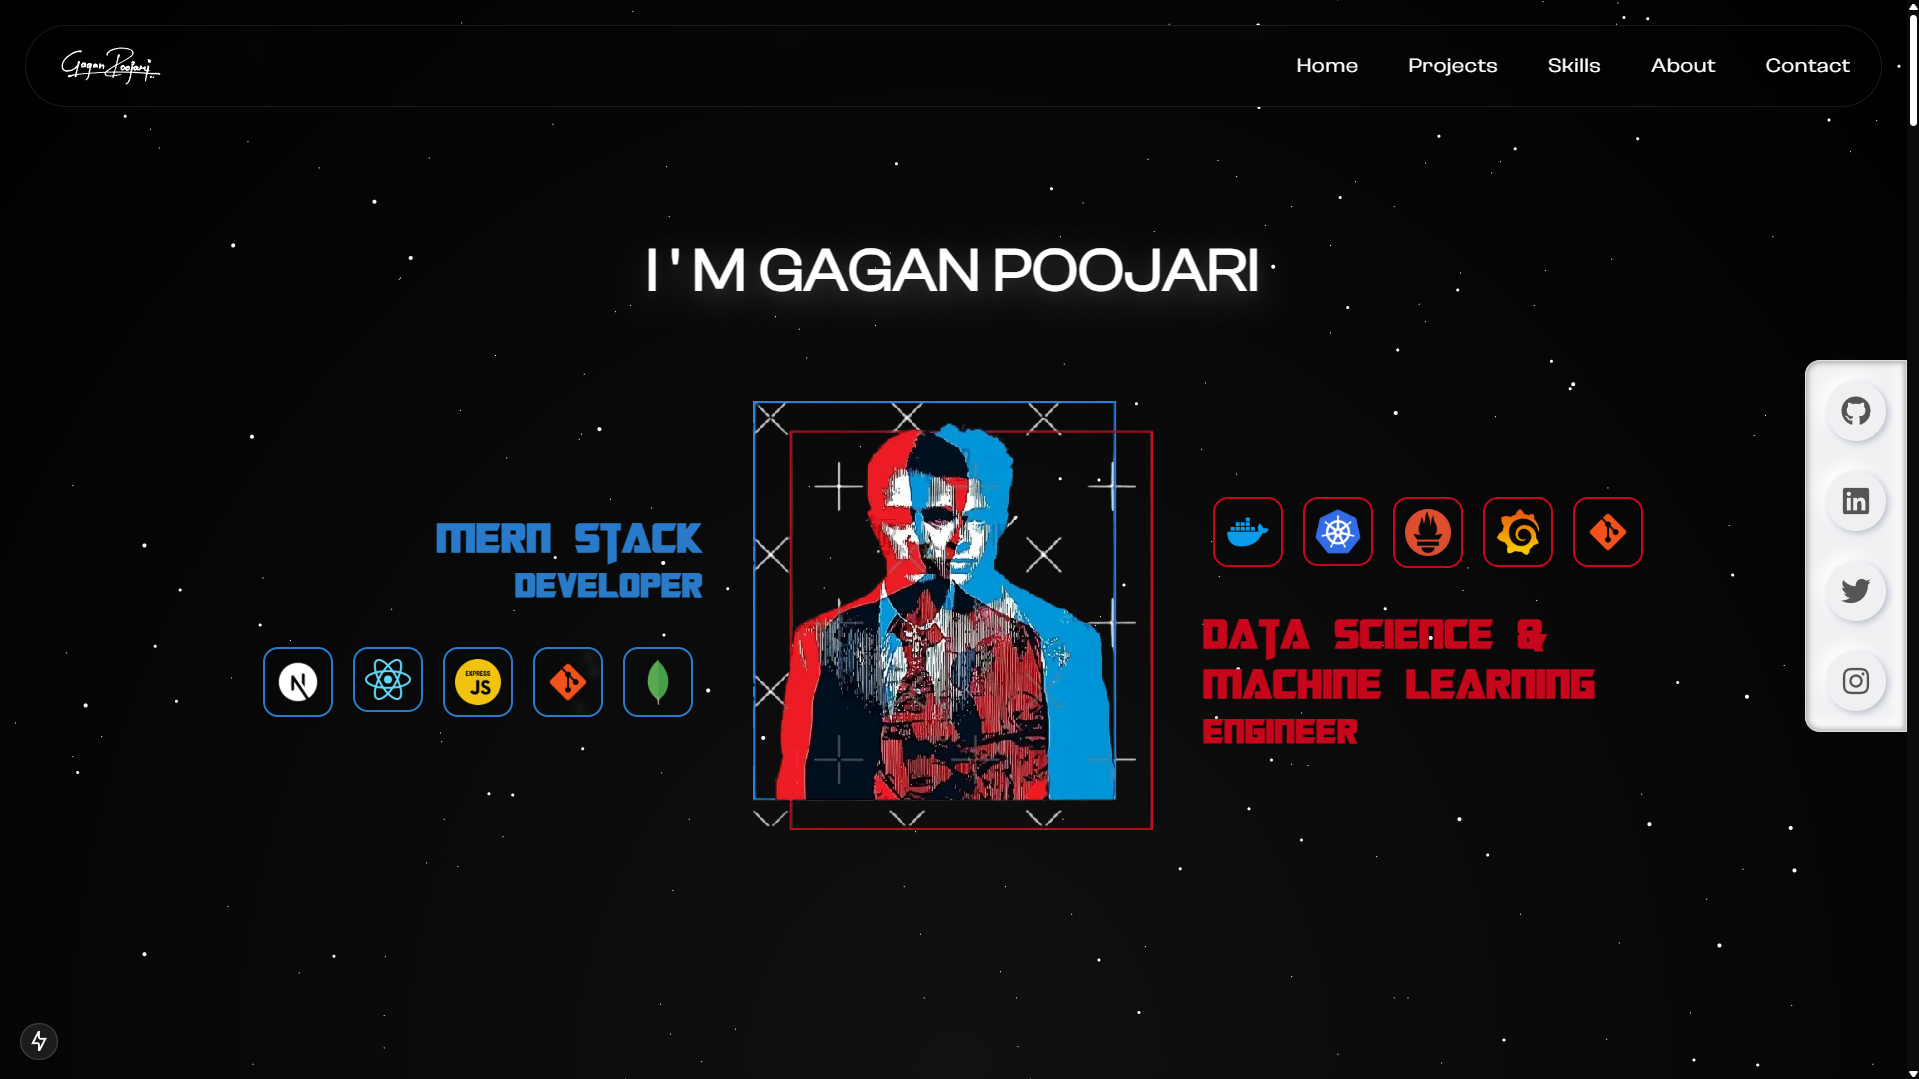
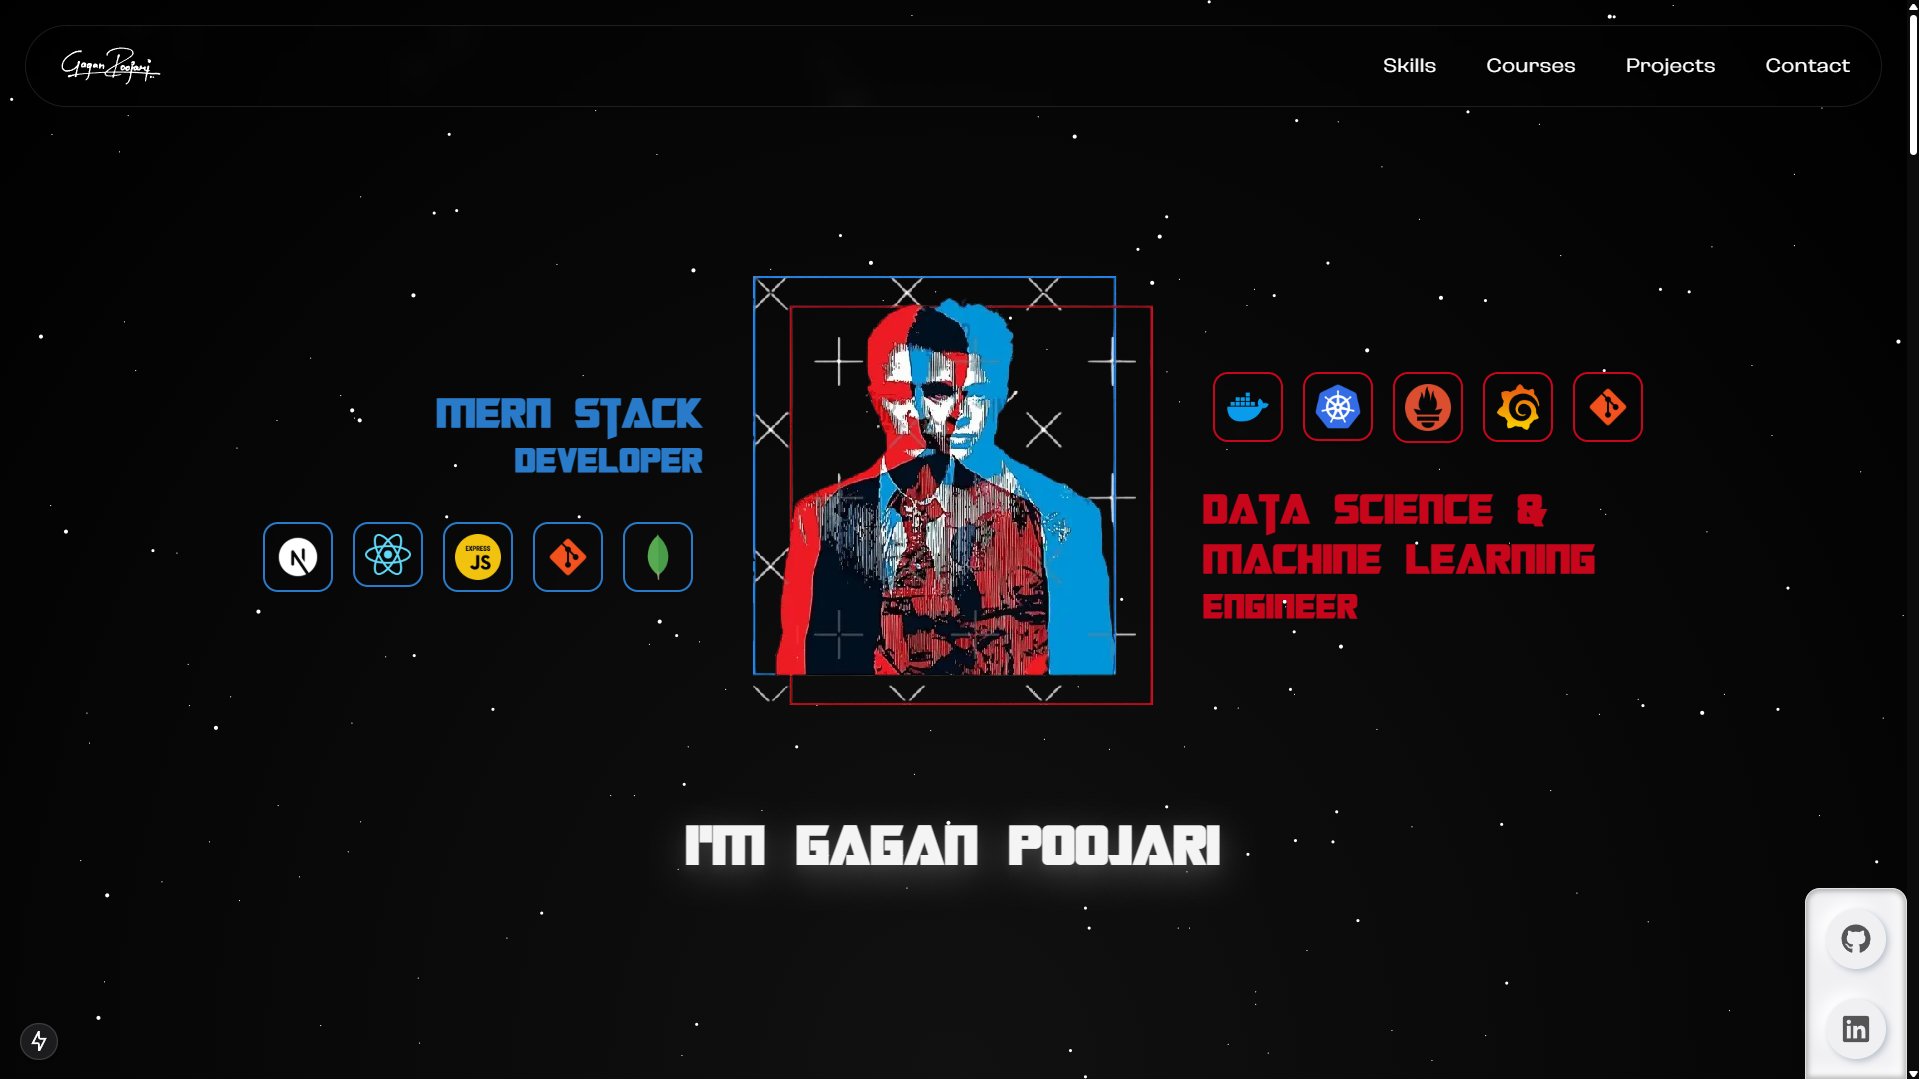
minor changes pending (project links)

diff --git a/app/components/SlideBar.jsx b/app/components/SlideBar.jsx
@@ -11,95 +11,21 @@ const socials = [
     icon: <FaGithub />,
   },
   {
-    name: 'LinkedIn',
-    url: 'https://www.linkedin.com/in/gagan-poojari',
+    name: 'LinkedIn',   
+    url: 'https://www.linkedin.com/in/gagan-poojari-840744319/',
     icon: <FaLinkedin />,
   },
-  {
-    name: 'Twitter',
-    url: 'https://twitter.com/your-handle',
-    icon: <FaTwitter />,
-  },
-  {
-    name: 'Instagram',
-    url: 'https://instagram.com/your-handle',
-    icon: <FaInstagram />,
-  },
+  // {
+  //   name: 'Twitter',
+  //   url: 'https://twitter.com/your-handle',
+  //   icon: <FaTwitter />,
+  // },
+  // {
+  //   name: 'Instagram',
+  //   url: 'https://instagram.com/your-handle',
+  //   icon: <FaInstagram />,
+  // },
 ];
-
-// const SlideBar = () => {
-//   return (
-//     <motion.div
-//       initial={{ opacity: 0, x: -30 }}
-//       animate={{ opacity: 1, x: 0 }}
-//       transition={{ duration: 0.6, ease: 'easeOut' }}
-//       className="fixed top-1/3 right-0 z-50 hidden lg:flex flex-col gap-6 p-4 rounded-l-2xl bg-black/20 backdrop-blur-sm border border-white/50 customshadow"
-//     >
-//       {socials.map((social, index) => (
-//         <motion.a
-//           key={index}
-//           href={social.url}
-//           target="_blank"
-//           rel="noopener noreferrer"
-//           title={social.name}
-//           initial={{ opacity: 0, y: 20 }}
-//           animate={{ opacity: 1, y: 0 }}
-//           transition={{
-//             delay: index * 0.1 + 0.3,
-//             duration: 0.1,
-//             ease: 'easeOut',
-//           }}
-//           whileHover={{
-//             scale: 1.3,
-//             rotate: [0, 5, -5, 0],
-//             boxShadow: '0 0 15px rgba(0,0,0,0.25)',
-//           }}
-//           whileTap={{ scale: 0.95 }}
-//           className="text-black text-2xl p-3 bg-white rounded-full shadow-md hover:shadow-lg transition-all"
-//         >
-//           {social.icon}
-//         </motion.a>
-//       ))}
-//     </motion.div>
-//   );
-// };
-
-// const SlideBar = () => {
-//   return (
-//     <motion.div
-//       initial={{ opacity: 0, x: -30 }}
-//       animate={{ opacity: 1, x: 0 }}
-//       transition={{ duration: 0.6, ease: 'easeOut' }}
-//       className="fixed top-1/3 right-0 z-50 hidden lg:flex flex-col gap-6 p-4 rounded-l-3xl bg-[#f0f0f3] border border-[#e0e0e0] shadow-neomorph-light"
-//     >
-//       {socials.map((social, index) => (
-//         <motion.a
-//           key={index}
-//           href={social.url}
-//           target="_blank"
-//           rel="noopener noreferrer"
-//           title={social.name}
-//           initial={{ opacity: 0, y: 20 }}
-//           animate={{ opacity: 1, y: 0 }}
-//           transition={{
-//             delay: index * 0.1 + 0.3,
-//             duration: 0.1,
-//             ease: 'easeOut',
-//           }}
-//           whileHover={{
-//             scale: 1.15,
-//             rotate: [0, 3, -3, 0],
-//             boxShadow: '8px 8px 16px #bebebe, -8px -8px 16px #ffffff',
-//           }}
-//           whileTap={{ scale: 0.95 }}
-//           className="text-[#555] text-2xl p-3 bg-[#f0f0f3] rounded-full shadow-neomorph-inset transition-all duration-300"
-//         >
-//           {social.icon}
-//         </motion.a>
-//       ))}
-//     </motion.div>
-//   );
-// };
 
 const SlideBar = () => {
   return (
@@ -107,7 +33,7 @@ const SlideBar = () => {
       initial={{ opacity: 0, x: -30 }}
       animate={{ opacity: 1, x: 0 }}
       transition={{ duration: 0.6, ease: 'easeOut' }}
-      className="fixed top-1/3 right-0 z-50 hidden lg:flex flex-col gap-6 p-4 rounded-l-xl inset-shadow bg-[#f0f0f3] border border-[#e0e0e0] shadow-neomorph-light"
+      className="fixed bottom-0 right-0 z-50 hidden lg:flex flex-col gap-6 p-4 rounded-t-xl inset-shadow bg-[#f0f0f3] border border-[#e0e0e0] shadow-neomorph-light"
     >
       {socials.map((social, index) => (
         <motion.a

diff --git a/app/components/Contact.jsx b/app/components/Contact.jsx
@@ -3,11 +3,34 @@ import React, { useRef, useState } from 'react';
 import { motion } from 'framer-motion';
 import emailjs from '@emailjs/browser';
 import toast, { Toaster } from 'react-hot-toast';
+import { FaGithub, FaLinkedin, FaTwitter, FaInstagram } from 'react-icons/fa';
 
 const Contact = () => {
     const formRef = useRef();
     const [status, setStatus] = useState('');
 
+    const socials = [
+        {
+            name: 'GitHub2',
+            url: 'https://github.com/Gagan-poojari',
+            icon: <FaGithub />,
+        },
+        // {
+        //     name: 'GitHub2',
+        //     url: 'https://github.com/Gagan-poojari',
+        //     icon: <FaGithub />,
+        // },
+        {
+            name: 'LinkedIn',
+            url: 'https://www.linkedin.com/in/gagan-poojari-840744319/',
+            icon: <FaLinkedin />,
+        },
+        // {
+        //     name: 'Instagram',
+        //     url: 'https://www.instagram.com/gagan__poojari',
+        //     icon: <FaInstagram />,
+        // },
+    ];
     const sendEmail = (e) => {
         e.preventDefault();
         setStatus('sending');
@@ -85,6 +108,35 @@ const Contact = () => {
                     </motion.button>
                 </form>
             </motion.div>
+
+
+            <motion.div
+                initial={{ opacity: 0, x: -30 }}
+                animate={{ opacity: 1, x: 0 }}
+                transition={{ duration: 0.6, ease: 'easeOut' }}
+                className="flex gap-5 lg:hidden justify-center"
+            >
+                {socials.map((social, index) => (
+                    <motion.a
+                        key={index}
+                        href={social.url}
+                        target="_blank"
+                        rel="noopener noreferrer"
+                        title={social.name}
+                        initial={{ opacity: 0, y: 20 }}
+                        animate={{ opacity: 1, y: 0 }}
+                        transition={{
+                            delay: index * 0.1 + 0.3,
+                            duration: 0.1,
+                            ease: 'easeOut',
+                        }}
+                        className="text-[#555] text-xl p-3 bg-[#000000] rounded-full border border-[#ffffff69] transition-all duration-300 hover:text-[#ffffff]"
+                    >
+                        {social.icon}
+                    </motion.a>
+                ))}
+            </motion.div>
+
         </section>
     );
 };

diff --git a/app/components/MainFC.jsx b/app/components/MainFC.jsx
@@ -46,13 +46,13 @@ const letter = {
   visible: { opacity: 1, y: 0 },
 };
 
-  const [heading, setHeading] = useState('HEY THERE, WELCOME TO MY PORTFOLIO...');
+  const [heading, setHeading] = useState('WELCOME TO MY PORTFOLIO...');
   const [hasSwitched, setHasSwitched] = useState(false);
 
   useEffect(() => {
     if (!hasSwitched) {
       const timeout = setTimeout(() => {
-        setHeading("I ' M GAGAN POOJARI");
+        setHeading("I'M GAGAN POOJARI");
         setHasSwitched(true);
       }, 2500);
       return () => clearTimeout(timeout);
@@ -61,8 +61,8 @@ const letter = {
 
 
   return (
-    <div className='min-h-screen flex flex-col justify-center items-center lg:gap-20 p-10'>
-      <motion.div
+    <div className='min-h-screen flex flex-col justify-center items-center lg:gap-20 p-10 pt-24'>
+      {/* <motion.div
       initial="hidden"
       animate="visible"
       variants={sentence}
@@ -71,7 +71,7 @@ const letter = {
       <h1 style={{
           textShadow:
             '0px 4px 8px rgba(255,255,255,.05),0px 8px 30px rgba(255,255,255,.25)',
-        }} className="text-4xl m-10 lg:m-0 md:text-6xl lg:text-5xl font-extrabold text-[#ffffff]">
+        }} className="text-2xl mt-14 mb-7 lg:m-0 md:text-4xl lg:text-5xl font-extrabold text-[#ffffff]">
         <Balancer>
           {heading.split('').map((char, index) => (
             <motion.span key={index} variants={letter}>
@@ -80,7 +80,7 @@ const letter = {
           ))}
         </Balancer>
       </h1>
-    </motion.div>
+    </motion.div> */}
         
       <div className="relative z-10 flex flex-col lg:flex-row justify-center items-center gap-10 px-4 overflow-hidden">
 
@@ -189,6 +189,25 @@ const letter = {
           </div>
         </Tilt>
       </div>
+      <motion.div
+      initial="hidden"
+      animate="visible"
+      variants={sentence}
+      className="flex flex-col items-center justify-center text-center px-6"
+    >
+      <h1 style={{
+          textShadow:
+            '0px 4px 8px rgba(255,255,255,.05),0px 8px 30px rgba(255,255,255,.25)',
+        }} className="text-2xl mt-14 lg:m-0 md:text-4xl lg:text-5xl font-extrabold text-[#f4f4f4] transformers">
+        <Balancer>
+          {heading.split('').map((char, index) => (
+            <motion.span key={index} variants={letter}>
+              {char === ' ' ? '\u00A0' : char}
+            </motion.span>
+          ))}
+        </Balancer>
+      </h1>
+    </motion.div>
     </div>
   )
 }

diff --git a/app/components/NavBar.jsx b/app/components/NavBar.jsx
@@ -5,10 +5,9 @@ import { FaBars, FaTimes } from 'react-icons/fa';
 import Link from 'next/link';
 
 const navLinks = [
-  { name: 'Home', href: '/' },
-  { name: 'Projects', href: '#projects' },
   { name: 'Skills', href: '#skills' },
-  { name: 'About', href: '#about' },
+  { name: 'Courses', href: '#courses' },
+  { name: 'Projects', href: '#projects' },
   { name: 'Contact', href: '#contact' },
 ];
 
@@ -68,7 +67,7 @@ const NavBar = () => {
         transition={{ duration: 0.6, ease: 'easeInOut' }}
         className={`flex items-center justify-between text-white backdrop-blur-md border border-white/10 rounded-full ${
           shouldCollapse && !isOpen
-            ? 'aspect-square p-0 justify-center items-center border border-[#fff]/50'
+            ? 'aspect-square p-0 justify-center items-center border border-[#fff]/60'
             : 'px-6 py-3'
         }`}
       >

diff --git a/app/components/SkillsSection.jsx b/app/components/SkillsSection.jsx
@@ -55,10 +55,10 @@ export default function SkillsSection() {
           textShadow:
             '0px 4px 8px rgba(255,255,255,.05),0px 8px 30px rgba(255,255,255,.25)',
         }}
-        className="relative text-4xl font-medium tracking-tight sm:text-5xl md:text-6xl mt-10 text-balance text-center z-30 -translate-y-6 md:-translate-y-10 text-[#fff]"
+        className="relative text-3xl font-medium tracking-tight sm:text-5xl md:text-6xl mt-10 text-balance text-center z-30 -translate-y-6 md:-translate-y-10 text-[#fff]"
       >
         <span className="text-gradient bg-clip-text animate-gradient-x font-nyght tracking-wide">
-          THE SECRET SAUCE
+          UNDER THE HOOD
         </span>
       </h2>
       <div className="relative mx-auto size-fit overflow-hidden h-[200px]">

diff --git a/app/components/HeroSection.jsx b/app/components/HeroSection.jsx
@@ -39,7 +39,7 @@ const HeroSection = () => {
   ]
 
   return (
-    <div className="min-h-screen w-full bg-black text-white flex flex-col items-center justify-center relative overflow-hidden px-4 py-20">
+    <div className="lg:min-h-screen w-full bg-black text-white flex flex-col items-center justify-center relative overflow-hidden px-4 py-20">
       <div className="absolute inset-0 z-0 bg-gradient-to-br from-[#297bc9]/10 via-transparent to-[#c7061c]/10" />
 
       <Tilt tiltMaxAngleX={10} tiltMaxAngleY={10} scale={1.05} glareEnable={true} glareMaxOpacity={0.2}>

diff --git a/app/components/ProjectSection.jsx b/app/components/ProjectSection.jsx
@@ -169,7 +169,7 @@ const ProjectSection = () => {
         className="relative z-2 mb-10 text-4xl font-medium tracking-tight sm:text-5xl md:text-6xl text-balance text-center"
       >
         <p className="mb-3 text-xs font-normal tracking-widest text-[#fff] dark:text-white/70 uppercase md:text-sm">
-          FEATURED CASE STUDIES
+          BUILT WITH A PURPOSE
         </p>
         <span className='text-[#fff]'>
           <span>MY &nbsp;</span>

diff --git a/app/components/CourseCarousel.jsx b/app/components/CourseCarousel.jsx
@@ -35,7 +35,7 @@ const courses = [
 
 const CourseCarousel = () => {
   return (
-    <section className="w-full bg-[#000000] py-10 px-4 overflow-hidden">
+    <section id="courses" className="w-full bg-[#000000] py-10 px-4 overflow-hidden">
 
       <p className="mb-3 text-xs font-normal tracking-widest text-center text-black/80 dark:text-white/70 uppercase md:text-sm">
         Courses & Certifications (click to verify)

diff --git a/app/page.js b/app/page.js
@@ -32,5 +32,5 @@ export default function Home() {
         </div>
       </StarsBackground>
     </div>
-  );
+  ); 
 }
